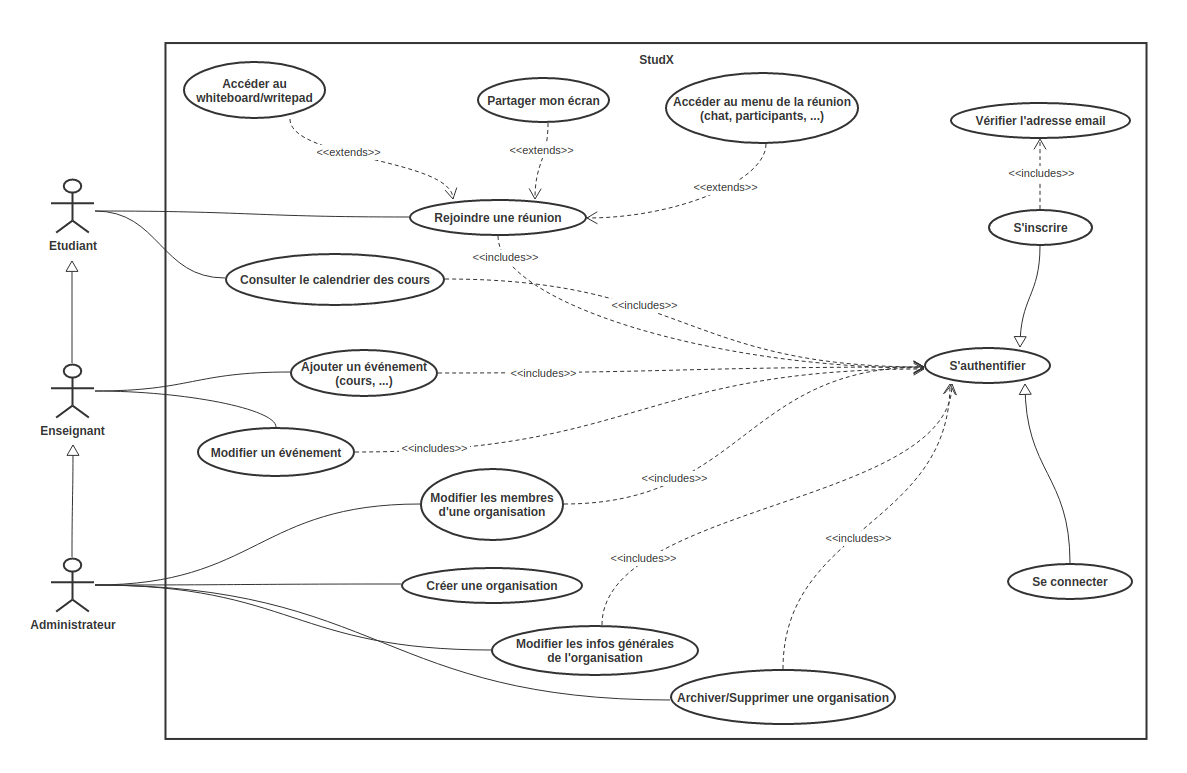
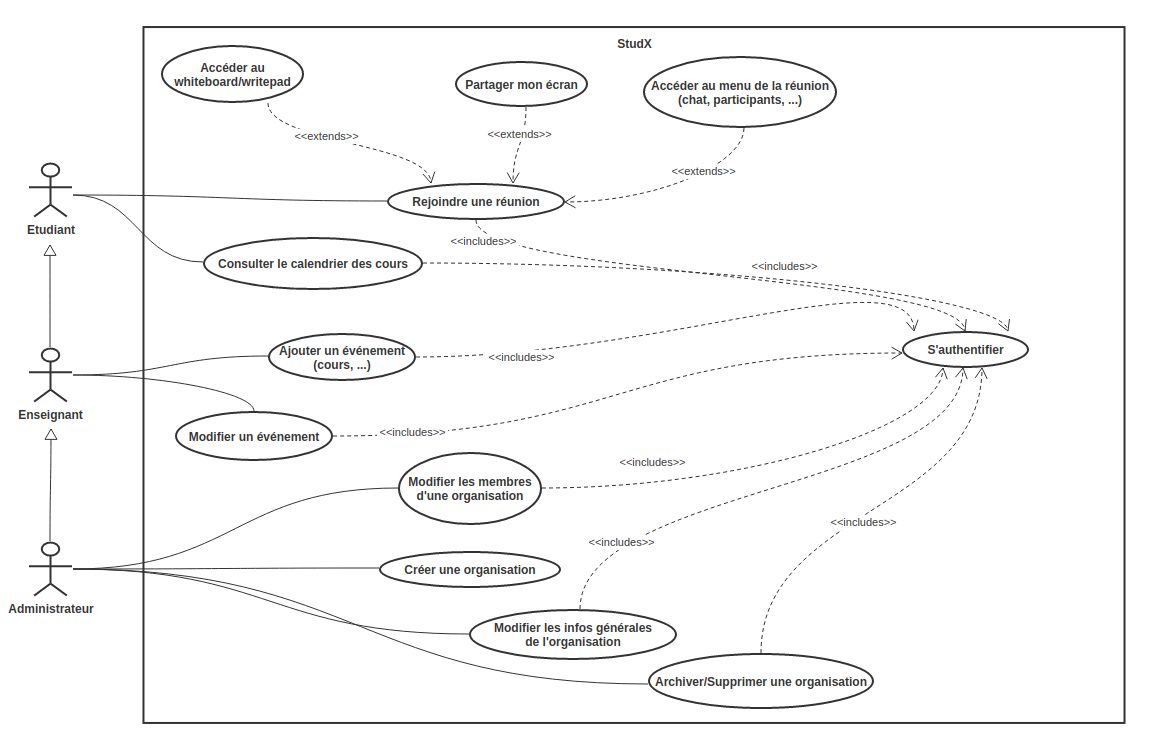
fix(recommandation): UML diagrams improvments

diff --git a/2-partie/main.tex b/2-partie/main.tex
@@ -39,45 +39,7 @@ La figure \ref{fig:use_case_diag} en fait l'illustration.
 
 Outre le diagramme, il s'avère parfois nécessaire de fournir, en plus, des descriptions textuelles des cas 
 d’utilisation, dans le but d’apporter plus d'éclaircissements. 
-Ci-dessous, sont présentées les descriptions textuelles des cas “S’authentifier”, “Ajouter un événement” et “Rejoindre une réunion”.
-
-\subsubsection{Description textuelle du cas d’utilisation “S’authentifier”}
-\textbf{Titre} : S’authentifier\newline
-\textbf{Objectif} : Authentifier un utilisateur afin qu’il accède à la plateforme\newline
-\textbf{Acteurs} : Étudiant ou Enseignant ou Administrateur\newline
-\textbf{Pré-conditions} : 
-\begin{itemize}[noitemsep,topsep=0pt]
-  \item l’utilisateur dispose d’un compte et est admis dans au moins une organisation.
-\end{itemize}
-\textbf{Séquence nominale} :
-\begin{enumerate}[noitemsep,topsep=0pt]
-  \item l’utilisateur remplit le formulaire de connexion ;
-  \item le système authentifie l’utilisateur ;
-  \item le système redirige l’utilisateur vers la page la page d'accueil de l’organisation la plus récente.
-\end{enumerate}
-\textbf{Post-conditions} : 
-\begin{itemize}[noitemsep,topsep=0pt]
-  \item l’utilisateur dispose d’une session active.
-\end{itemize}
-\textbf{Enchaînements alternatifs} :
-\begin{itemize}[noitemsep,topsep=0pt]
-  \item A1: Identifiants incorrects\newline
-    L'enchaînement démarre au point 2.
-
-  \begin{enumerate}[noitemsep,topsep=0pt]
-    \setcounter{enumi}{1}
-    \item Le système renvoie l’utilisateur vers la page de connexion avec une notification. Ce dernier effectue à nouveau la saisie.
-  \end{enumerate}
-
-  \item A2: L’utilisateur n’appartient à aucune organisation.\newline
-    L'enchaînement prend départ au point 3.
-
-  \begin{enumerate}[noitemsep,topsep=0pt]
-    \setcounter{enumi}{2}
-    \item Le système redirige l’utilisateur vers une page 404.
-  \end{enumerate}
-\end{itemize}
-
+Ci-dessous, sont présentées les descriptions textuelles des cas “Ajouter un événement” et “Rejoindre une réunion”.
 
 \subsubsection{Description textuelle du cas d’utilisation “Ajouter un événement”}
 \textbf{Titre} : Ajouter un événement\newline
@@ -123,15 +85,8 @@ Ci-dessous, sont présentées les descriptions textuelles des cas “S’authent
 
 \subsection{Diagramme de séquence}
 Le diagramme de séquence décrit les interactions, dans l’espace temps, entre objets dans le cadre des scénarii évoqués au niveau des cas d’utilisations. 
-Les figures \ref{fig:auth_seq_diag}, \ref{fig:add_event_seq_diag} et \ref{fig:join_meet_seq_diag} illustrent les diagrammes de séquences pour les trois cas d’utilisation suscités.
+Les figures \ref{fig:add_event_seq_diag} et \ref{fig:join_meet_seq_diag} illustrent les diagrammes de séquences pour les deux cas d’utilisation suscités.
 
-
-\begin{figure}[H]
-  \centering
-  \includegraphics[width=\linewidth]{auth-sequence-diag}
-  \caption{Diagramme de séquence du cas d'utilisation “S’authentifier”}
-  \label{fig:auth_seq_diag}
-\end{figure}
 
 \begin{figure}[H]
   \centering
